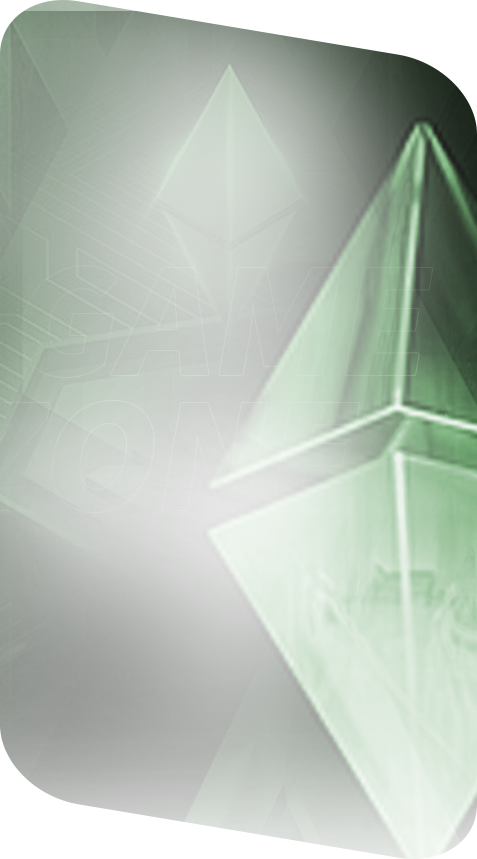
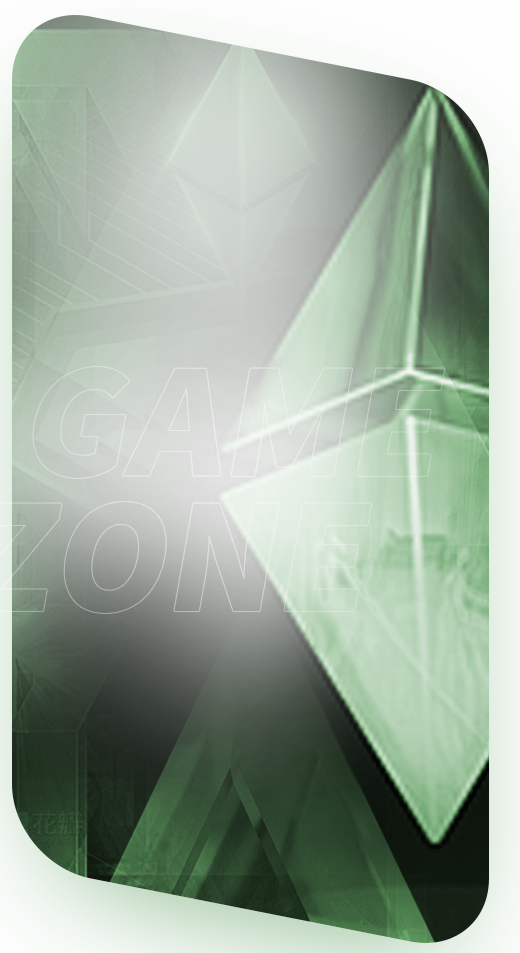
home page game updated

diff --git a/assets/css/custom.css b/assets/css/custom.css
@@ -962,9 +962,8 @@ button#dropdownMenuButton3 {
 }
 
 /*****GAME***************************/
-
 .green-active-bg {
-    background-image: url(app-assets/images/home/green-game-zone.png);
+    background-image: url(../../app-assets/images/home/green-game-zone.png);
     background-size: cover;
     background-repeat: no-repeat;
     padding-top: 10em;
@@ -972,15 +971,16 @@ button#dropdownMenuButton3 {
 }
 
 .yellow-active-bg {
-    background-image: url(app-assets/images/home/yellow-game-zone.png);
+    background-image: url(../../app-assets/images/home/yellow-game-zone.png);
     background-size: cover;
     background-repeat: no-repeat;
     padding-top: 10em;
     padding-bottom: 10em;
 }
 
+
 .green-inactive-bg {
-    background-image: url(app-assets/images/home/game-grey-1.png);
+    background-image: url(../../app-assets/images/home/game-grey-1.png);
     background-size: cover;
     background-repeat: no-repeat;
     padding-top: 10em;
@@ -988,7 +988,7 @@ button#dropdownMenuButton3 {
 }
 
 .yellow-inactive-bg {
-    background-image: url(app-assets/images/home/game-grey.png);
+    background-image: url(../../app-assets/images/home/game-grey.png);
     background-size: cover;
     background-repeat: no-repeat;
     padding-top: 10em;
@@ -1264,7 +1264,9 @@ button#dropdownMenuButton3 {
 }
 
 
-
+.home.card-body {
+    padding: 0 !important;
+}
 .last-wrapper,.left-wrapper,  .right-wrapper {
 
 }
@@ -1314,6 +1316,23 @@ button#dropdownMenuButton3 {
   -webkit-text-fill-color: transparent;
 }
 
+.home-green-active-bg {
+    background-image: url(../../app-assets/images/home/green-bg2.png);
+    background-size: 100% 100%;
+    background-repeat: no-repeat;
+    padding-top: 15em;
+    padding-bottom: 15em;
+}
+
+.home-yellow-active-bg {
+    background-image: url(../../app-assets/images/home/yellow-bg2.png);
+    background-size: 100% 100%;
+    background-repeat: no-repeat;
+    padding-top: 15em;
+    padding-bottom: 15em;
+}
+
+
 /*mobile*/
 @media screen and (max-width: 1199px) {
 
@@ -1346,7 +1365,7 @@ button#dropdownMenuButton3 {
 @media screen and (max-width: 400px) {
     .eos, .tron {
          font-size: 1.8rem;
-         top: -80%;
+         top: -300%;
          position: relative;
          /*right: -30%;*/
          font-weight: bolder;
@@ -1366,13 +1385,13 @@ button#dropdownMenuButton3 {
     }
     .play-wrapper {
         position: absolute;
-        top: 30%;
+        top: 20%;
         left: 25%;
         z-index: 99;
     }
     .play-wrapper h1 {
         font-size: 16px;
-        top: -80px;
+        top: -75px;
     }
     .home .tab-submit-yellow, .home .tab-submit-blue, .home .tab-submit-green {
         padding: 1.5em !important;
@@ -1382,12 +1401,20 @@ button#dropdownMenuButton3 {
         top: -15px !important;
         font-size: 0.5em;
     }
+
+    .home-green-active-bg {
+        background-size: contain;
+    }
+
+    .home-yellow-active-bg {
+        background-size: contain;
+    }
 }
 
 @media screen and (min-width: 401px) {
     .eos, .tron {
           font-size: 2.4rem;
-            top: -60%;
+        top: -200%;
          position: relative;
          /*right: -30%;*/
          font-weight: bolder;
@@ -1407,13 +1434,13 @@ button#dropdownMenuButton3 {
     }
     .play-wrapper {
         position: absolute;
-        top: 30%;
+        top: 20%;
         left: 25%;
         z-index: 99;
     }
     .play-wrapper h1 {
-        font-size: 16px;
-        top: -85px;
+        font-size: 20px;
+        top: -90px;
     }
     .home .tab-submit-yellow, .home .tab-submit-blue, .home .tab-submit-green {
         padding: 1.5em !important;
@@ -1422,6 +1449,13 @@ button#dropdownMenuButton3 {
         position: relative;
         top: -15px !important;
         font-size: 0.5em;
+    }
+    .home-green-active-bg {
+        background-size: contain;
+    }
+
+    .home-yellow-active-bg {
+        background-size: contain;
     }
 }
 
@@ -1467,8 +1501,8 @@ button#dropdownMenuButton3 {
 @media screen and (min-width: 540px) {
 
     .eos, .tron {
-       font-size: 3.4rem;
-        top: -170%;
+       font-size: 3.0rem;
+        top: -70%;
     }
     .play-wrapper {
         position: absolute;
@@ -1478,7 +1512,7 @@ button#dropdownMenuButton3 {
     }
     .play-wrapper h1 {
         font-size: 30px;
-        top: -140px;
+        top: -135px;
     }
     .home .tab-submit-yellow, .home .tab-submit-blue, .home .tab-submit-green {
         padding: 1.5em !important;
@@ -1503,7 +1537,7 @@ button#dropdownMenuButton3 {
 
     .eos, .tron {
         font-size: 3.5rem;
-        top: -75%;
+        top: 5%;
     }
 
     .play-wrapper {
@@ -1513,8 +1547,8 @@ button#dropdownMenuButton3 {
         z-index: 99;
     }
     .play-wrapper h1 {
-        font-size: 30px;
-        top: -160px;
+        font-size: 40px;
+        top: -170px;
     }
 
    .home .tab-submit-yellow, .home .tab-submit-blue, .home .tab-submit-green {
@@ -1525,14 +1559,64 @@ button#dropdownMenuButton3 {
         top: -25px !important;
         font-size: 1.2em;
     }
+    .home-green-active-bg {
+        background-size: contain;
+    }
+
+    .home-yellow-active-bg {
+        background-size: contain;
+    }
 
 }
 
+
+@media screen and (min-width: 700px) {
+
+    .eos, .tron {
+        font-size: 3.5rem;
+        top: 5%;
+    }
+
+    .play-wrapper {
+        position: absolute;
+        top: 28%;
+        left: 25%;
+        z-index: 99;
+    }
+    .play-wrapper h1 {
+        font-size: 40px;
+        top: -170px;
+    }
+
+   .home .tab-submit-yellow, .home .tab-submit-blue, .home .tab-submit-green {
+        padding: 3.0em !important;
+    }
+    .home .unskewed {
+        position: relative;
+        top: -25px !important;
+        font-size: 1.2em;
+    }
+    .home-green-active-bg {
+        background-size: contain;
+    }
+
+    .home-yellow-active-bg {
+        background-size: contain;
+    }
+
+}
 @media screen and (max-width: 280px) {
     .play-wrapper {
         position: absolute;
         top: 80px;
         left: -0.5%;z-index: 99;
+    }
+    .home-green-active-bg {
+        background-size: contain;
+    }
+
+    .home-yellow-active-bg {
+        background-size: contain;
     }
 
 }
@@ -1554,20 +1638,20 @@ button#dropdownMenuButton3 {
         /*left: 20%;*/
         position: relative;
     }
+    .eos, .tron {
+        font-size: 3.5rem;
+        top: 5%;
+    }
+
     .play-wrapper {
         position: absolute;
-        top: 25%;
+        top: 28%;
         left: 25%;
         z-index: 99;
     }
     .play-wrapper h1 {
-        font-size: 30px;
-        top: -165px;
-    }
-
-    .eos, .tron {
-        font-size: 3rem;
-        top:  -80%;
+        font-size: 40px;
+        top: -170px;
     }
     .eos {
         right: 20%;
@@ -1593,7 +1677,7 @@ button#dropdownMenuButton3 {
     position: relative;
     line-height: 12px;
     text-align: center;
-    padding: 2em;
+    padding: 0.5em;
     background-repeat: no-repeat;
 }
 .home .tab-submit-yellow {

diff --git a/index.php b/index.php
@@ -2,29 +2,38 @@
 $active = 'home';
 include('header.php');
 ?>
-
-<div class="card">
-  <div class="card-body home">
-
-        <div class="row">
-            <div class="col-4 tab-submit-green">
-                <span class="unskewed">Inspiration</span>
-               
-            </div>
-
-            <div class="col-4 tab-submit-blue">
-                <span class="unskewed">Excellent</span>
-               
-            </div>
-
-   
-           <div class="col-4 tab-submit-yellow">
-                  <span class="unskewed">FAQ</span>  
-            </div>
-        </div>
+<ul class="nav justify-content-center home py-2">
+   <li class="nav-item">
+    <a class="nav-link8" href="#">
+    <div class="tab-submit-green">
         
+          <span class="unskewed">Inspiration</span><br/>
+          <img src="app-assets/images/home/next.png" width="12" style="position: relative;top: -20px;">
+      
     </div>
-  </div>
+    </a>
+  </li>
+  <li class="nav-item">
+    <a class="nav-link8" href="#">
+    <div class="tab-submit-blue">
+        
+          <span class="unskewed">Inspiration</span><br/>
+          <img src="app-assets/images/home/next.png" width="12" style="position: relative;top: -20px;">
+      
+    </div>
+    </a>
+  </li>
+     <li class="nav-item">
+    <a class="nav-link8" href="#">
+    <div class="tab-submit-yellow">
+        
+          <span class="unskewed">Inspiration</span><br/>
+          <img src="app-assets/images/home/next.png" width="12" style="position: relative;top: -20px;">
+      
+    </div>
+    </a>
+  </li>
+</ul>
 
 
 <div class="row">
@@ -38,14 +47,14 @@ include('header.php');
 
     <!--content-->
 <div class="row home-play-card">
-    <div class="col-6 text-center green-active-bg">
+    <div class="col-6 text-center home-green-active-bg">
        <a href="game.php">
         <span class="eos">EOS</span>
        </a>
       
     </div>
 
-     <div class="col-6 text-center yellow-active-bg">
+     <div class="col-6 text-center home-yellow-active-bg">
         <a href="game.php">
            <span class="tron">TRON</span>
         </a>
@@ -54,7 +63,7 @@ include('header.php');
    
 </div>
 
-  <div class="row" >
+  <div class="row">
     <div class="col-6 play-wrapper">
       <div id="outer-div">
         <div id="inner-div">
